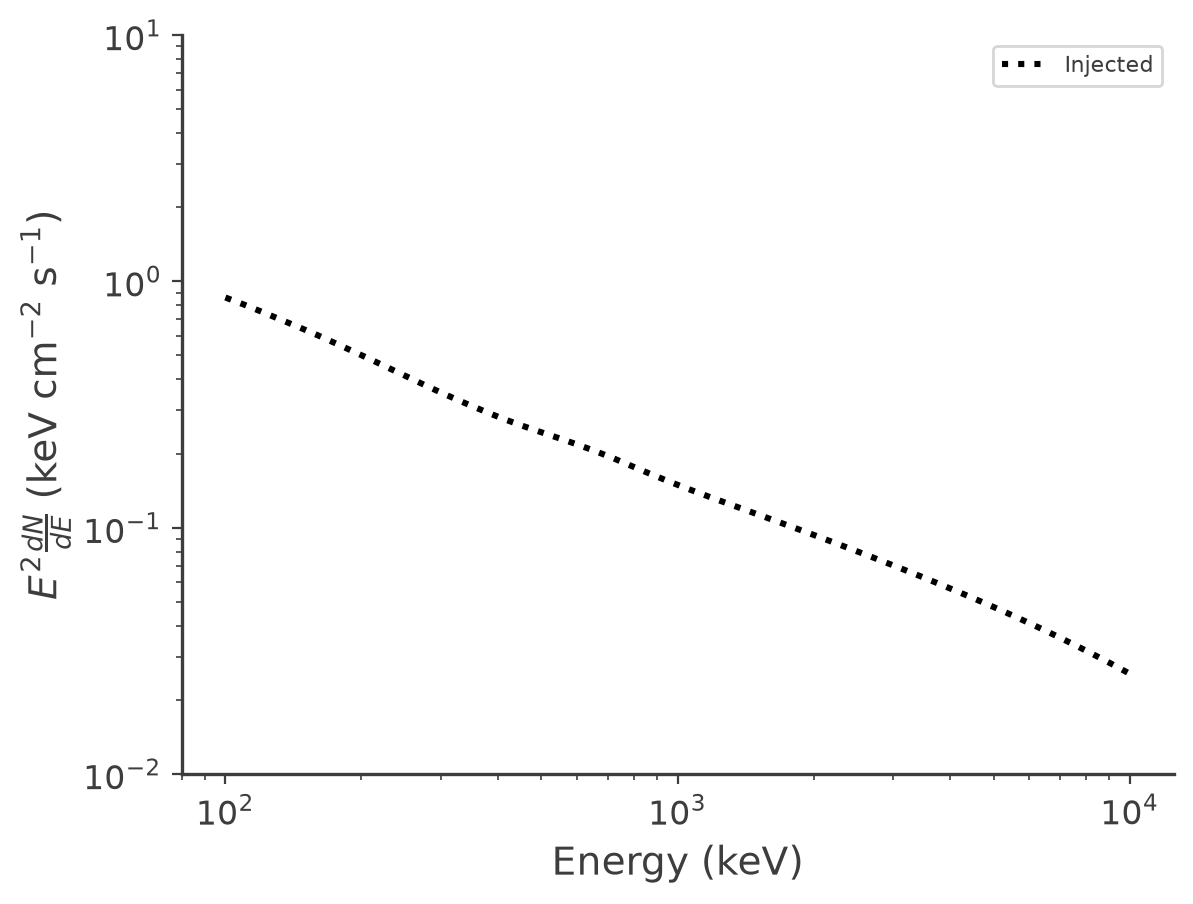
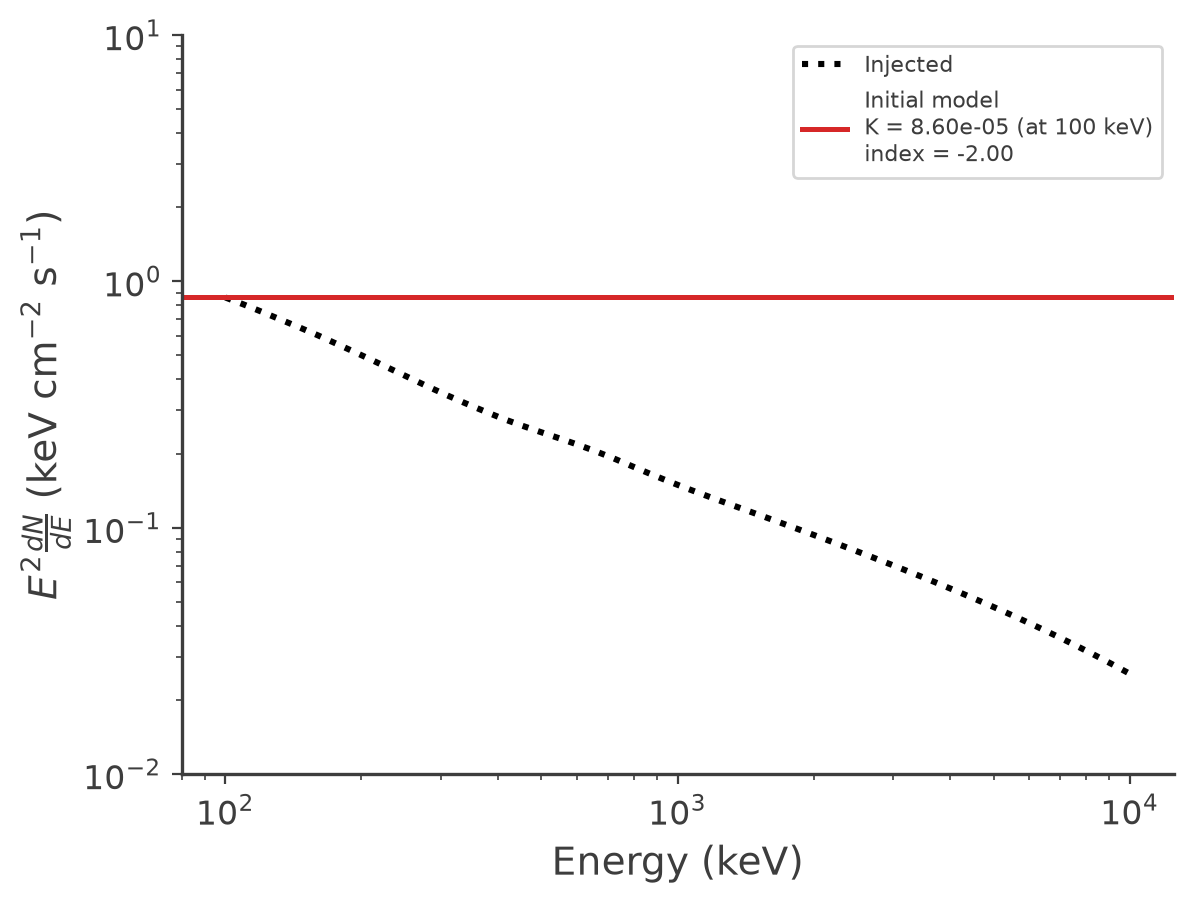
Aggiornamento automatico

Changed region(s): [[0.6513, 0.031, 0.9925, 0.2168], [0.1551, 0.3097, 0.9925, 0.3407], [0.6513, 0.0619, 0.6823, 0.0929]]

diff --git a/Cygnus X-1 soft/model/spectra.py b/Cygnus X-1 soft/model/spectra.py
@@ -3,7 +3,37 @@ import numpy as np
 import matplotlib
 import matplotlib.pyplot as plt
 
-dat_file = "cygX1_soft_spec.dat"
+from pathlib import Path
+from fit_function import crea_modello_spettrale
+
+def trova_file(nome, radici):
+    """Cerca `nome` in ciascuna radice (e nelle sue sottocartelle), nell'ordine dato."""
+    if isinstance(radici, (str, Path)):
+        radici = [radici]                      # accetto anche una radice singola
+
+    for radice in map(Path, radici):
+        if not radice.exists():
+            print(f"Radice non presente su questo computer, la salto: {radice}")
+            continue
+
+        trovati = sorted(radice.rglob(nome))
+        if trovati:
+            if len(trovati) > 1:
+                print(f"Attenzione: {len(trovati)} file chiamati {nome} sotto {radice}:")
+                for p in trovati:
+                    print("  ", p)
+                print("Uso il primo.")
+            return trovati[0]
+
+    raise FileNotFoundError(f"{nome} non trovato in nessuna di queste radici: {[str(r) for r in radici]}")
+
+radici = [
+    "/heronas/simeone/COSI",
+    "/home/lorysimeone/COSI/Cygnus X-1 soft/model",
+]
+
+dat_file = trova_file("cygX1_soft_spec.dat", radici)
+print(f"Uso: {dat_file}")
 out_file = "cygX1_soft_spectrum_model.png"
 
 # Leggo le righe "DP energia(keV) dN/dE(ph cm^-2 s^-1 keV^-1)"
@@ -16,6 +46,11 @@ with open(dat_file) as f:
             dnde.append(float(p[2]))
 energy = np.array(energy)
 dnde = np.array(dnde)
+
+# NUOVO: creo il modello spettrale e lo valuto su una griglia di energie in keV
+spectrum = crea_modello_spettrale()       # usa i valori di default: index=-2.0, K=8.6e-5 a 100 keV
+e_grid = np.geomspace(80, 12500, 200)     # keV, stesso intervallo dell'asse x del grafico
+model_dnde = spectrum(e_grid)             # dN/dE in ph cm^-2 s^-1 keV^-1
 
 # Stile: assi grigio scuro, niente bordi in alto e a destra
 col = "#3d3d3d"
@@ -33,14 +68,17 @@ fig, ax = plt.subplots()
 # Lo spettro della tabella
 ax.plot(energy, energy * energy * dnde, color="black", ls=":", lw=2.2, label="Injected")
 
+# NUOVO: il modello della funzione (valori iniziali del fit)
+model_label = (f"Initial model\nK = {spectrum.K.value:.2e} (at {spectrum.piv.value:g} keV)\n"
+               f"index = {spectrum.index.value:.2f}")
+ax.plot(e_grid, e_grid * e_grid * model_dnde, color="tab:red", lw=1.8, label=model_label)
+
 ax.set_xscale("log")
 ax.set_yscale("log")
 
 ax.set_xlabel("Energy (keV)", fontsize=14)
 ax.set_ylabel(r"$E^2 \frac{dN}{dE}$ (keV cm$^{-2}$ s$^{-1}$)", fontsize=14)
 
-# Stessi limiti x dell'immagine; i limiti y sono spostati rispetto a (0.1, 100)
-# perché questa sorgente ha E^2 dN/dE tra circa 0.03 e 0.9 keV cm^-2 s^-1
 ax.set_xlim(80, 12500)
 ax.set_ylim(0.01, 10)
 
@@ -51,4 +89,5 @@ ax.tick_params(axis="both", which="major", labelsize=12)
 ax.legend(fontsize=8, loc="upper right", frameon=True, fancybox=True)
 
 fig.savefig(out_file, dpi=200, bbox_inches="tight")
+plt.close(fig)
 print(f"Salvato: {out_file}")

diff --git a/Cygnus X-1 soft/spectral_fit.py b/Cygnus X-1 soft/spectral_fit.py
@@ -2,13 +2,6 @@ import time
 
 t_start = time.perf_counter()
 
-import os
-from pathlib import Path
-
-_numba_cache_dir = Path("/tmp/numba_cache")  # definisco una directory scrivibile in /tmp per la cache di Numba
-_numba_cache_dir.mkdir(parents=True, exist_ok=True)  # creo la directory della cache se non esiste già
-os.environ.setdefault("NUMBA_CACHE_DIR", str(_numba_cache_dir))  # imposto NUMBA_CACHE_DIR prima di importare cosipy/threeML/numba
-
 import sys
 import pickle
 
